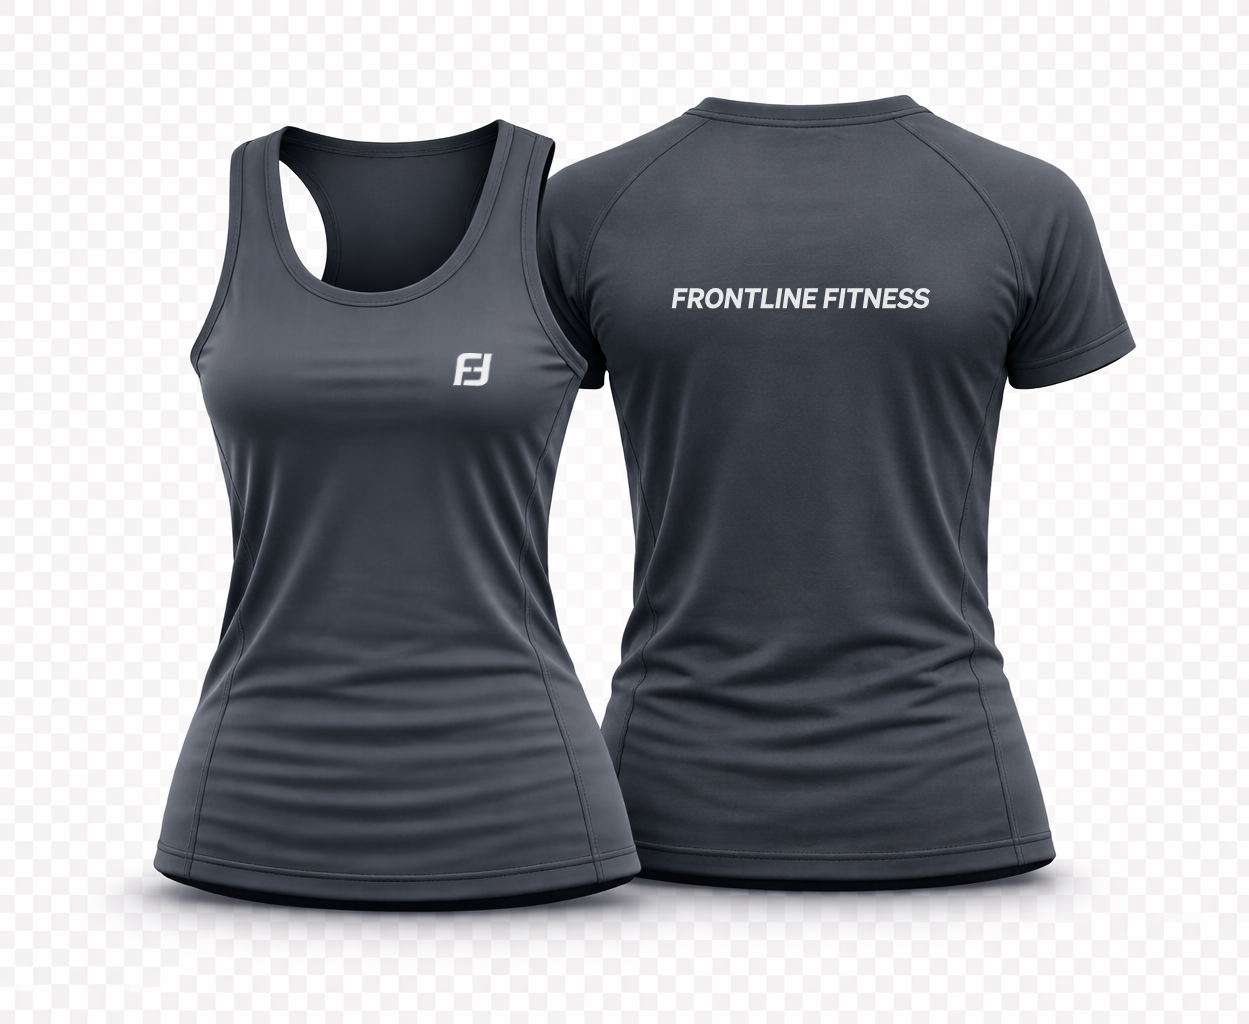
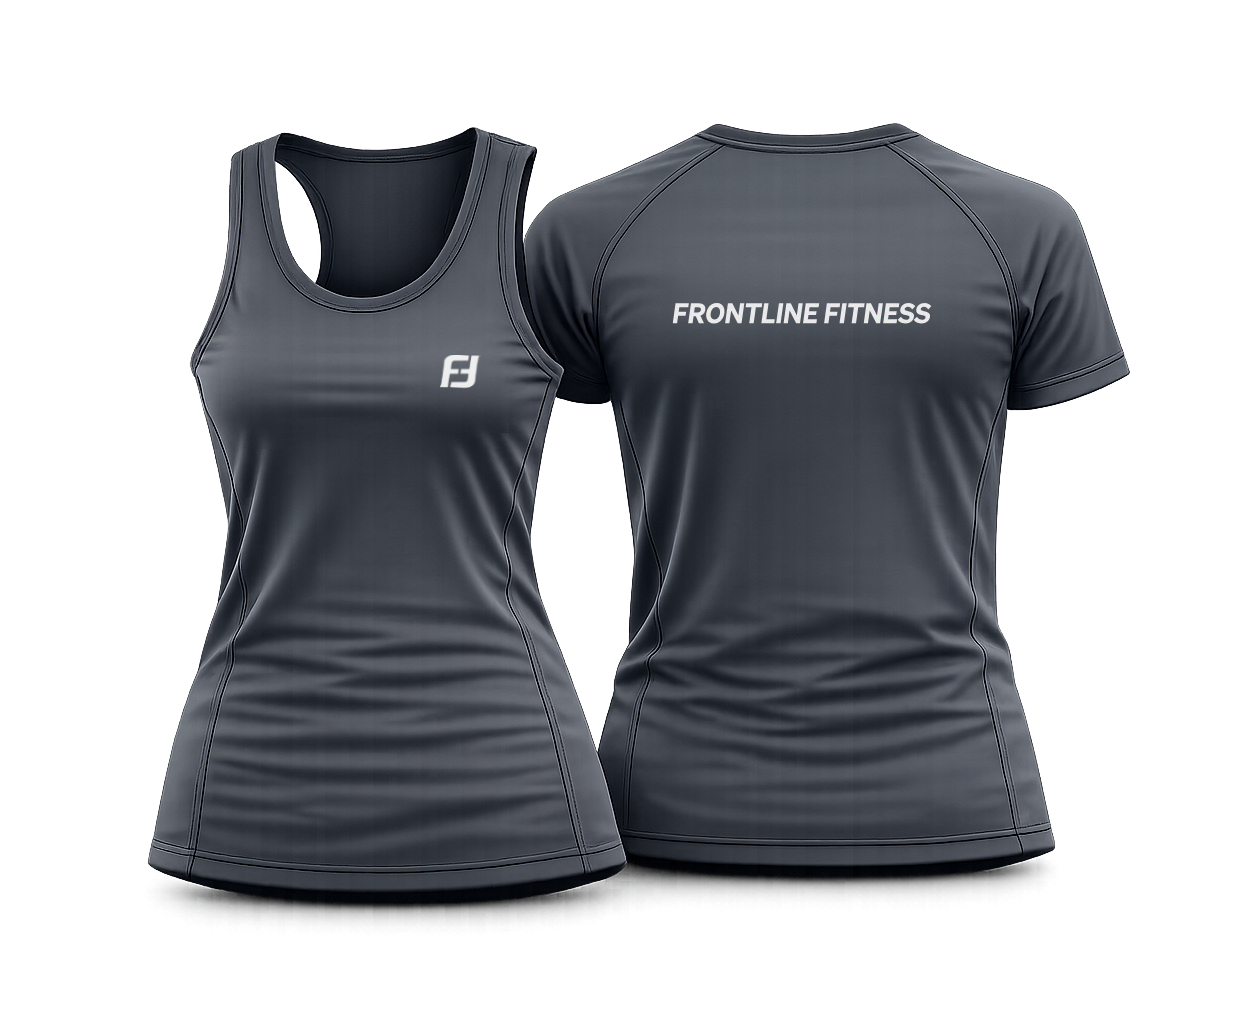
Free tee: update to correct product image (ladies vest + tee mockup)

Changed region(s): [[0.0937, 0.0938, 0.9055, 0.9375]]

diff --git a/src/app/free-tee/page.tsx b/src/app/free-tee/page.tsx
@@ -157,7 +157,7 @@ export default function FounderMerchPage() {
           ) : (
             <>
               {/* Product image */}
-              <div className="rounded-xl overflow-hidden border border-white/10">
+              <div className="rounded-xl overflow-hidden border border-white/10 bg-[#0a0a0a]">
                 <img src="/images/founder-tee.png" alt="Frontline Fitness Tee &amp; Vest" className="w-full object-cover" />
               </div>
 
